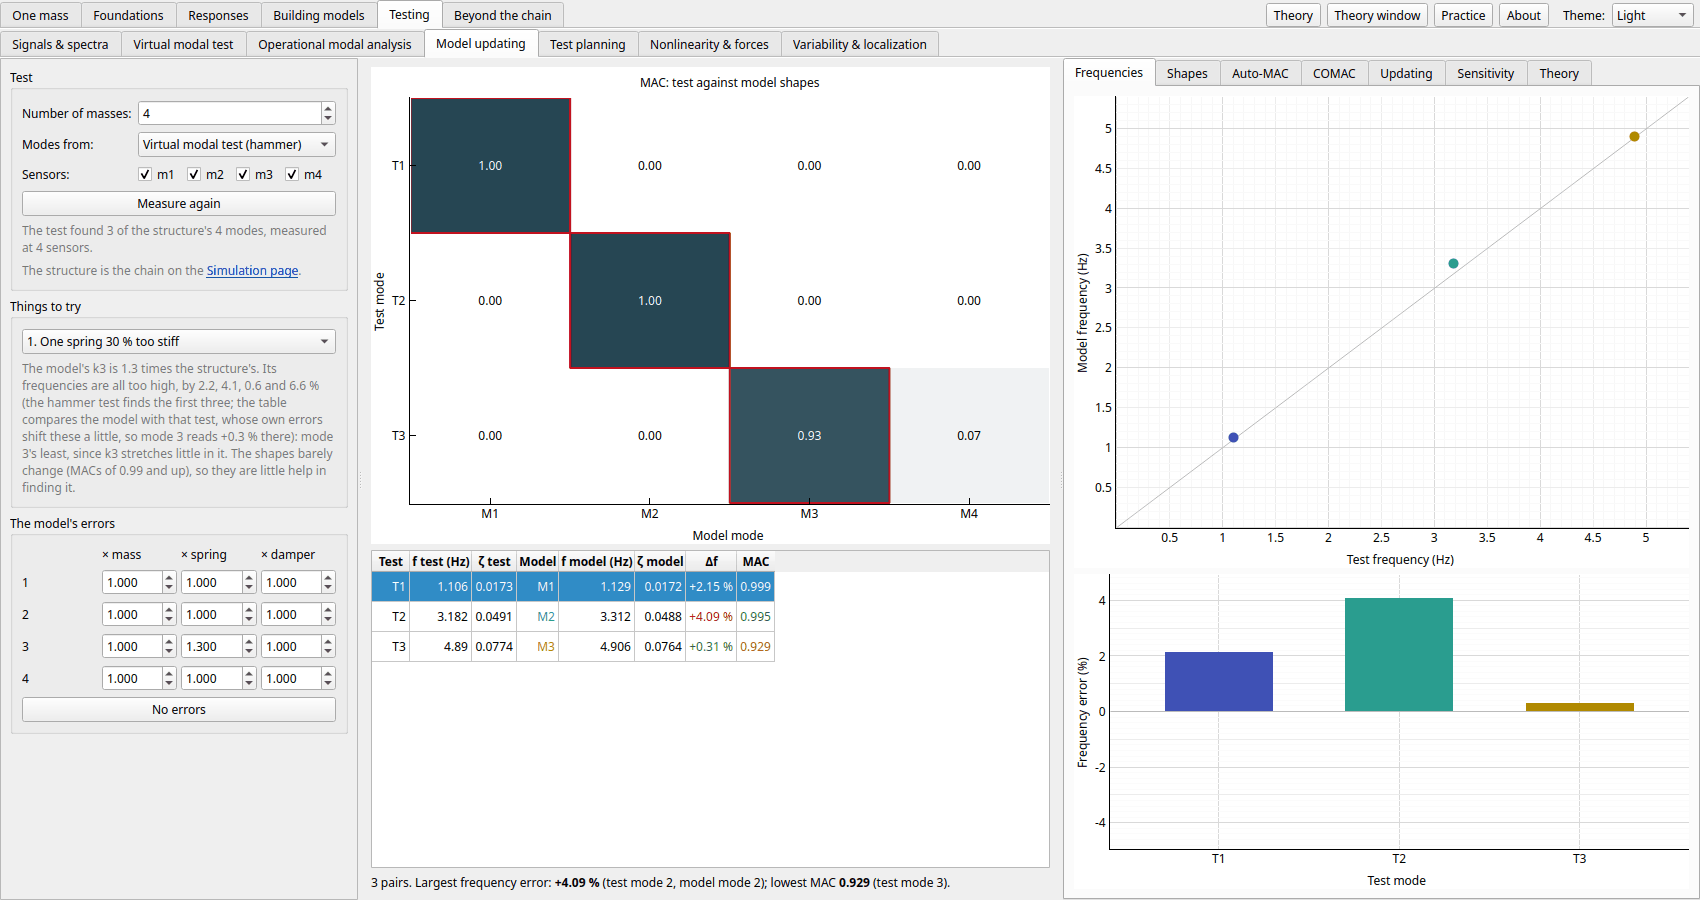
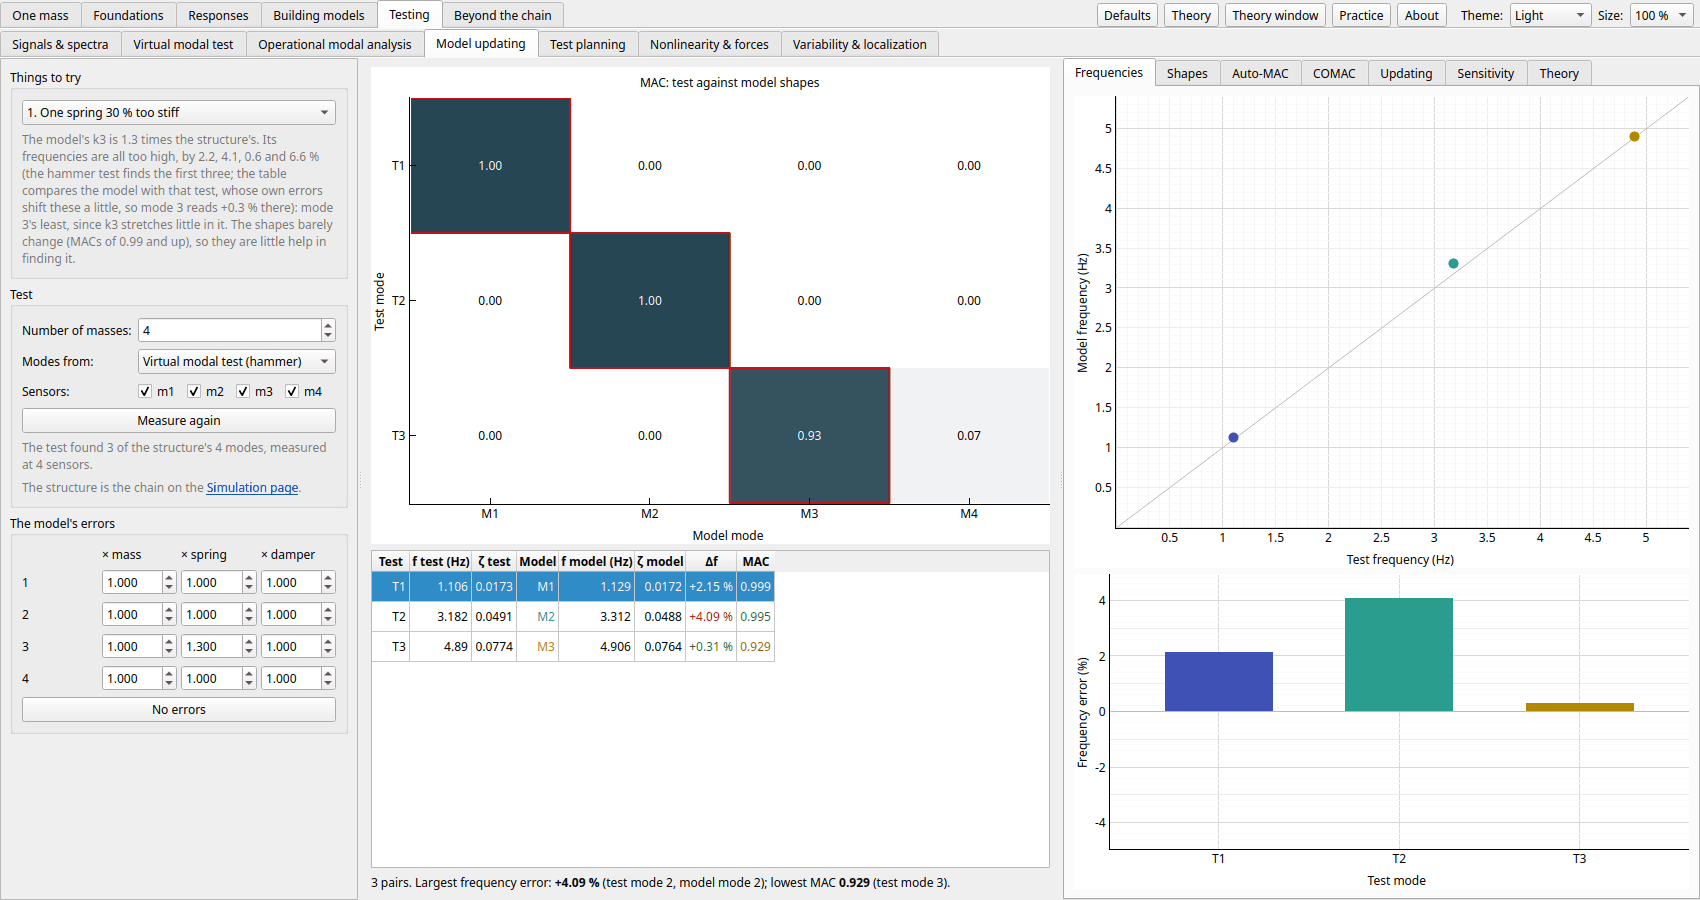
Things to try first in the left pane on Random vibration, OMA, Model updating and Shock, as on every page (#316 B13)

Changed region(s): [[0.0, 0.0933, 0.1871, 0.56], [0.6547, 0.0, 0.9976, 0.0311], [0.0, 0.0622, 0.0312, 0.0933]]

diff --git a/src/vib_tutorial/gui/random_vibration.py b/src/vib_tutorial/gui/random_vibration.py
@@ -529,7 +529,7 @@ class RandomVibrationPage(QtWidgets.QWidget):
 
         left = QtWidgets.QWidget()
         lv = QtWidgets.QVBoxLayout(left)
-        for b in (box, out_box, rec_box, trials):
+        for b in (trials, box, out_box, rec_box):  # Things to try first, as on every page
             lv.addWidget(b)
         lv.addStretch(1)
         left_scroll = ColumnScroll(left)

diff --git a/src/vib_tutorial/gui/model_updating.py b/src/vib_tutorial/gui/model_updating.py
@@ -592,7 +592,7 @@ class ModelUpdatingPage(QtWidgets.QWidget):
 
         left = QtWidgets.QWidget()
         lv = QtWidgets.QVBoxLayout(left)
-        for b in (box, trials, model_box):
+        for b in (trials, box, model_box):  # Things to try first, as on every page
             lv.addWidget(b)
         lv.addStretch(1)
         left_scroll = ColumnScroll(left)

diff --git a/src/vib_tutorial/gui/oma.py b/src/vib_tutorial/gui/oma.py
@@ -579,7 +579,7 @@ class OmaPage(QtWidgets.QWidget):
 
         left = QtWidgets.QWidget()
         lv = QtWidgets.QVBoxLayout(left)
-        for box in (test, daq, proc, trials):
+        for box in (trials, test, daq, proc):  # Things to try first, as on every page
             lv.addWidget(box)
         lv.addStretch(1)
         left_scroll = ColumnScroll(left)

diff --git a/src/vib_tutorial/gui/shock.py b/src/vib_tutorial/gui/shock.py
@@ -603,7 +603,7 @@ class ShockPage(QtWidgets.QWidget):
 
         left = QtWidgets.QWidget()
         lv = QtWidgets.QVBoxLayout(left)
-        for b in (box, spec_box, trials):
+        for b in (trials, box, spec_box):  # Things to try first, as on every page
             lv.addWidget(b)
         lv.addStretch(1)
         left_scroll = ColumnScroll(left)
